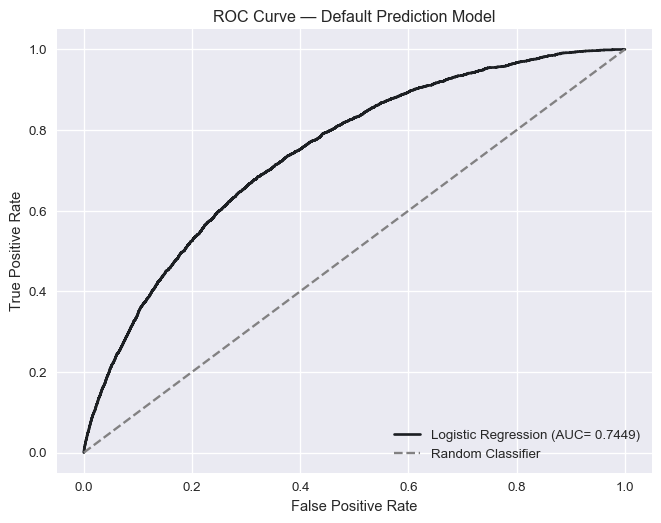
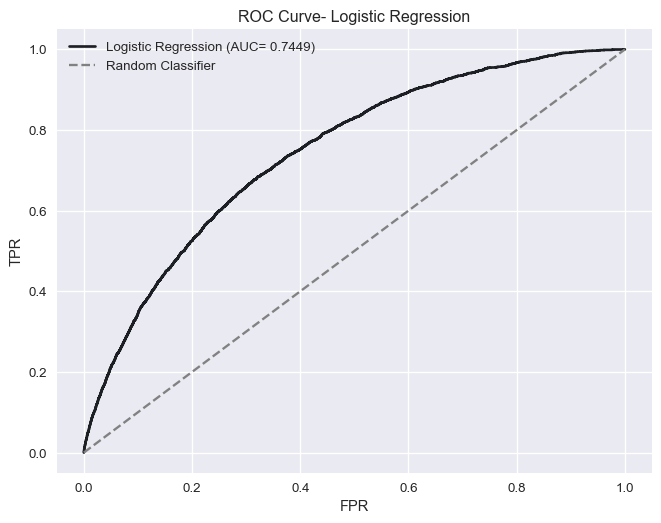
.

diff --git a/docs/models.html b/docs/models.html
@@ -233,7 +233,7 @@ pre > code.sourceCode > span > a:first-child::before { text-decoration: underlin
 <hr>
 <section id="package-load" class="level3">
 <h3 class="anchored" data-anchor-id="package-load">Package Load</h3>
-<div id="e989912a" class="cell" data-execution_count="1">
+<div id="b534f80c" class="cell" data-execution_count="1">
 <div class="sourceCode cell-code" id="cb1"><pre class="sourceCode python code-with-copy"><code class="sourceCode python"><span id="cb1-1"><a href="#cb1-1" aria-hidden="true" tabindex="-1"></a><span class="im">import</span> pandas <span class="im">as</span> pd</span>
 <span id="cb1-2"><a href="#cb1-2" aria-hidden="true" tabindex="-1"></a><span class="im">import</span> matplotlib.pyplot <span class="im">as</span> plt</span>
 <span id="cb1-3"><a href="#cb1-3" aria-hidden="true" tabindex="-1"></a></span>
@@ -244,7 +244,7 @@ pre > code.sourceCode > span > a:first-child::before { text-decoration: underlin
 <span id="cb1-8"><a href="#cb1-8" aria-hidden="true" tabindex="-1"></a><span class="im">from</span> sklearn.metrics <span class="im">import</span> classification_report, roc_auc_score, roc_curve, RocCurveDisplay</span></code><button title="Copy to Clipboard" class="code-copy-button"><i class="bi"></i></button></pre></div>
 </div>
 <p>Logistic regression is the better choice for our binary target variable. After scaling the ROC outputs show how efficient the model is.</p>
-<div id="403a5c2e" class="cell" data-execution_count="2">
+<div id="16bf40dc" class="cell" data-execution_count="2">
 <div class="sourceCode cell-code" id="cb2"><pre class="sourceCode python code-with-copy"><code class="sourceCode python"><span id="cb2-1"><a href="#cb2-1" aria-hidden="true" tabindex="-1"></a><span class="co">#-- loading clean data--</span></span>
 <span id="cb2-2"><a href="#cb2-2" aria-hidden="true" tabindex="-1"></a>final_2018<span class="op">=</span> pd.read_csv(<span class="st">"data/final_2018.csv"</span>, index_col<span class="op">=</span><span class="st">"loan_id"</span>)</span>
 <span id="cb2-3"><a href="#cb2-3" aria-hidden="true" tabindex="-1"></a></span>
@@ -258,7 +258,7 @@ pre > code.sourceCode > span > a:first-child::before { text-decoration: underlin
 <span id="cb2-11"><a href="#cb2-11" aria-hidden="true" tabindex="-1"></a>trainx, testx, trainy, testy<span class="op">=</span> train_test_split(x, y, test_size<span class="op">=</span><span class="fl">0.2</span>,</span>
 <span id="cb2-12"><a href="#cb2-12" aria-hidden="true" tabindex="-1"></a>random_state<span class="op">=</span><span class="dv">42</span>, stratify<span class="op">=</span>y)</span></code><button title="Copy to Clipboard" class="code-copy-button"><i class="bi"></i></button></pre></div>
 </div>
-<div id="bdf0414f" class="cell" data-execution_count="3">
+<div id="311cf5ec" class="cell" data-execution_count="3">
 <div class="sourceCode cell-code" id="cb3"><pre class="sourceCode python code-with-copy"><code class="sourceCode python"><span id="cb3-1"><a href="#cb3-1" aria-hidden="true" tabindex="-1"></a><span class="co">#--scaling--</span></span>
 <span id="cb3-2"><a href="#cb3-2" aria-hidden="true" tabindex="-1"></a>scaler<span class="op">=</span> StandardScaler()</span>
 <span id="cb3-3"><a href="#cb3-3" aria-hidden="true" tabindex="-1"></a>trainx_scaled<span class="op">=</span> scaler.fit_transform(trainx)</span>
@@ -290,11 +290,11 @@ ROC-AUC: 0.7449</code></pre>
 </section>
 <section id="comparing-coefficients" class="level3">
 <h3 class="anchored" data-anchor-id="comparing-coefficients">Comparing Coefficients</h3>
-<div id="d71c3ecb" class="cell" data-execution_count="4">
+<div id="8459e78e" class="cell" data-execution_count="4">
 <div class="sourceCode cell-code" id="cb5"><pre class="sourceCode python code-with-copy"><code class="sourceCode python"><span id="cb5-1"><a href="#cb5-1" aria-hidden="true" tabindex="-1"></a>comparing_coefficients<span class="op">=</span> pd.DataFrame({<span class="st">"variable"</span>: x.columns, <span class="st">"coefficient"</span>:lr.coef_[<span class="dv">0</span>]}).sort_values(<span class="st">"coefficient"</span>, key<span class="op">=</span><span class="bu">abs</span>, ascending<span class="op">=</span><span class="va">False</span>)</span></code><button title="Copy to Clipboard" class="code-copy-button"><i class="bi"></i></button></pre></div>
 </div>
 <p>To make this interpretable we’ll raise eulers number to each coefficient of each variable.</p>
-<div id="7be0a73f" class="cell" data-execution_count="5">
+<div id="6defcc75" class="cell" data-execution_count="5">
 <div class="sourceCode cell-code" id="cb6"><pre class="sourceCode python code-with-copy"><code class="sourceCode python"><span id="cb6-1"><a href="#cb6-1" aria-hidden="true" tabindex="-1"></a>e<span class="op">=</span><span class="fl">2.71828</span></span>
 <span id="cb6-2"><a href="#cb6-2" aria-hidden="true" tabindex="-1"></a>comparing_coefficients[<span class="st">"interpret"</span>]<span class="op">=</span> (e <span class="op">**</span> comparing_coefficients[<span class="st">"coefficient"</span>]).<span class="bu">round</span>(<span class="dv">2</span>)<span class="op">-</span><span class="dv">1</span></span>
 <span id="cb6-3"><a href="#cb6-3" aria-hidden="true" tabindex="-1"></a><span class="bu">print</span>(comparing_coefficients)</span></code><button title="Copy to Clipboard" class="code-copy-button"><i class="bi"></i></button></pre></div>
@@ -324,7 +324,7 @@ ROC-AUC: 0.7449</code></pre>
 </div>
 </div>
 <p><strong>(create visualization of odds for slides***)</strong></p>
-<div id="ac394559" class="cell" data-execution_count="6">
+<div id="ab49acfa" class="cell" data-execution_count="6">
 <div class="sourceCode cell-code" id="cb8"><pre class="sourceCode python code-with-copy"><code class="sourceCode python"><span id="cb8-1"><a href="#cb8-1" aria-hidden="true" tabindex="-1"></a>coef_viz<span class="op">=</span> comparing_coefficients.sort_values(<span class="st">"interpret"</span>, ascending<span class="op">=</span> <span class="va">False</span>)</span>
 <span id="cb8-2"><a href="#cb8-2" aria-hidden="true" tabindex="-1"></a></span>
 <span id="cb8-3"><a href="#cb8-3" aria-hidden="true" tabindex="-1"></a>plt.figure(figsize<span class="op">=</span>(<span class="dv">10</span>, <span class="dv">8</span>))</span>
@@ -348,19 +348,19 @@ ROC-AUC: 0.7449</code></pre>
 </section>
 <section id="model-performance-plotting-roc-curve" class="level3">
 <h3 class="anchored" data-anchor-id="model-performance-plotting-roc-curve">Model Performance: Plotting ROC Curve</h3>
-<div id="f63bcc49" class="cell" data-execution_count="7">
+<p>The RUC curve below shows that our preliminary model (logistic regression model) has a decent predictive performance with an AUC value of 0.74. The model can correctly differentiate between default and not defaulted 74% of the time.</p>
+<div id="6c6800e8" class="cell" data-execution_count="7">
 <div class="sourceCode cell-code" id="cb9"><pre class="sourceCode python code-with-copy"><code class="sourceCode python"><span id="cb9-1"><a href="#cb9-1" aria-hidden="true" tabindex="-1"></a>fpr, tpr, thresholds<span class="op">=</span> roc_curve(testy, y_prob)</span>
-<span id="cb9-2"><a href="#cb9-2" aria-hidden="true" tabindex="-1"></a></span>
-<span id="cb9-3"><a href="#cb9-3" aria-hidden="true" tabindex="-1"></a>fig, ax<span class="op">=</span> plt.subplots(figsize<span class="op">=</span>(<span class="dv">8</span>, <span class="dv">6</span>))</span>
-<span id="cb9-4"><a href="#cb9-4" aria-hidden="true" tabindex="-1"></a>ax.plot(fpr, tpr, color<span class="op">=</span><span class="st">"#1C1F23"</span>, lw<span class="op">=</span><span class="dv">2</span>, label<span class="op">=</span><span class="ss">f"Logistic Regression (AUC= 0.7449)"</span>)</span>
-<span id="cb9-5"><a href="#cb9-5" aria-hidden="true" tabindex="-1"></a>ax.plot([<span class="dv">0</span>, <span class="dv">1</span>], [<span class="dv">0</span>, <span class="dv">1</span>], color<span class="op">=</span><span class="st">"#828182"</span>, linestyle<span class="op">=</span><span class="st">"--"</span>, label<span class="op">=</span><span class="st">"Random Classifier"</span>)</span>
-<span id="cb9-6"><a href="#cb9-6" aria-hidden="true" tabindex="-1"></a>ax.set_xlabel(<span class="st">"False Positive Rate"</span>)</span>
-<span id="cb9-7"><a href="#cb9-7" aria-hidden="true" tabindex="-1"></a>ax.set_ylabel(<span class="st">"True Positive Rate"</span>)</span>
-<span id="cb9-8"><a href="#cb9-8" aria-hidden="true" tabindex="-1"></a>ax.set_title(<span class="st">"ROC Curve — Default Prediction Model"</span>)</span>
-<span id="cb9-9"><a href="#cb9-9" aria-hidden="true" tabindex="-1"></a>ax.legend(loc<span class="op">=</span><span class="st">"lower right"</span>)</span>
-<span id="cb9-10"><a href="#cb9-10" aria-hidden="true" tabindex="-1"></a>plt.style.use(<span class="st">'seaborn-v0_8'</span>)</span>
-<span id="cb9-11"><a href="#cb9-11" aria-hidden="true" tabindex="-1"></a>plt.show()</span>
-<span id="cb9-12"><a href="#cb9-12" aria-hidden="true" tabindex="-1"></a>plt.close()</span></code><button title="Copy to Clipboard" class="code-copy-button"><i class="bi"></i></button></pre></div>
+<span id="cb9-2"><a href="#cb9-2" aria-hidden="true" tabindex="-1"></a>fig, ax<span class="op">=</span> plt.subplots(figsize<span class="op">=</span>(<span class="dv">8</span>, <span class="dv">6</span>))</span>
+<span id="cb9-3"><a href="#cb9-3" aria-hidden="true" tabindex="-1"></a>ax.plot(fpr, tpr, color<span class="op">=</span><span class="st">"#1C1F23"</span>, lw<span class="op">=</span><span class="dv">2</span>, label<span class="op">=</span><span class="ss">f"Logistic Regression (AUC= 0.7449)"</span>)</span>
+<span id="cb9-4"><a href="#cb9-4" aria-hidden="true" tabindex="-1"></a>ax.plot([<span class="dv">0</span>, <span class="dv">1</span>], [<span class="dv">0</span>, <span class="dv">1</span>], color<span class="op">=</span><span class="st">"#828182"</span>, linestyle<span class="op">=</span><span class="st">"--"</span>, label<span class="op">=</span><span class="st">"Random Classifier"</span>)</span>
+<span id="cb9-5"><a href="#cb9-5" aria-hidden="true" tabindex="-1"></a>ax.set_xlabel(<span class="st">"FPR"</span>)</span>
+<span id="cb9-6"><a href="#cb9-6" aria-hidden="true" tabindex="-1"></a>ax.set_ylabel(<span class="st">"TPR"</span>)</span>
+<span id="cb9-7"><a href="#cb9-7" aria-hidden="true" tabindex="-1"></a>ax.set_title(<span class="st">"ROC Curve- Logistic Regression"</span>)</span>
+<span id="cb9-8"><a href="#cb9-8" aria-hidden="true" tabindex="-1"></a>ax.legend(loc<span class="op">=</span><span class="st">"upper left"</span>)</span>
+<span id="cb9-9"><a href="#cb9-9" aria-hidden="true" tabindex="-1"></a>plt.style.use(<span class="st">'seaborn-v0_8'</span>)</span>
+<span id="cb9-10"><a href="#cb9-10" aria-hidden="true" tabindex="-1"></a>plt.show()</span>
+<span id="cb9-11"><a href="#cb9-11" aria-hidden="true" tabindex="-1"></a>plt.close()</span></code><button title="Copy to Clipboard" class="code-copy-button"><i class="bi"></i></button></pre></div>
 <div class="cell-output cell-output-display">
 <div>
 <figure class="figure">
@@ -374,7 +374,7 @@ ROC-AUC: 0.7449</code></pre>
 <section id="model-2--random-forest" class="level1">
 <h1>Model 2- Random Forest</h1>
 <p>(conduct random forest)</p>
-<p>(compare the models and select model to be used with MVP)</p>
+<p>(compare the models and select model to be used in app)</p>
 
 
 </section>
